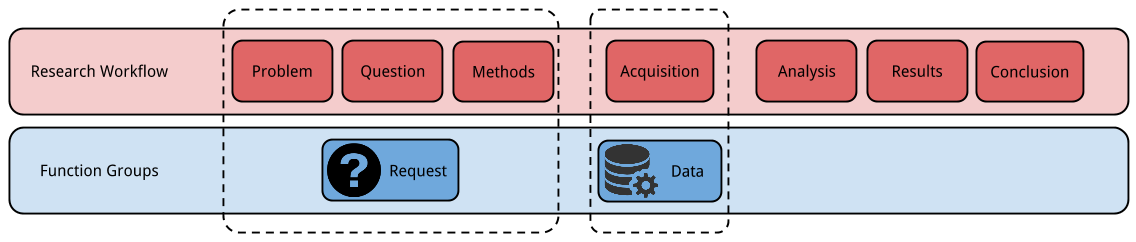
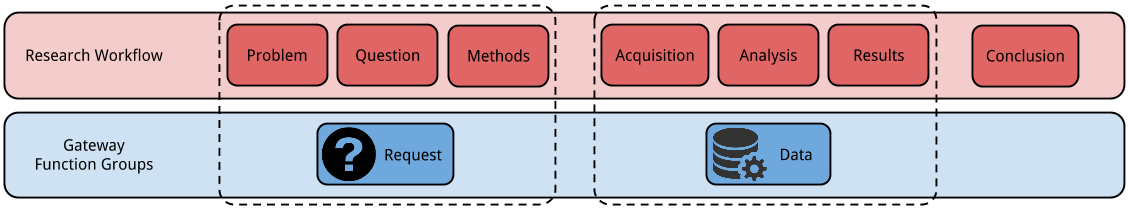
starting to change chapter 2

diff --git a/partials/requirements/process-analysis.tex b/partials/requirements/process-analysis.tex
@@ -1,22 +1,9 @@
-\silvia{general notes: 
-	\\(1) need to give a name for the dataset "fertility data repository"? ivf/prn repo? ivf-repo something short that you can simply use in this section.
-	\\(2) also need a name for the SG that is the main object in the thesis. 
-	the terminology should be introduced in the intro and used consistently afterwards
-	\\(3) explain stakeholders, what they do (with and without the system)
-	\\(4) refer to components, module, function groups - not "blocks"
-}
-
-In this chapter first the process analysis will be described, this gives an overview of what the current situation is.
-Then an initial system design is proposed which is used in a brainstorm session where the final requirements are discovered.
-Besides these user defined requirements there are also lawful and security related requirements.
-These will be described in the security and provenance sections.
-
 \section{Process Analysis}
 \label{process-analysis}
 
 \paragraph{Research with the \project{} dataset}
 When doing research in the medical domain a well known workflow is often used. Nwogu \cite{nwogu} has formally described and defined this workflow for scientific reporting purposes (\ie{} writing scientific papers).
-Figure \ref{fig:research-workflow} shows the simplification of this workflow, which includes problem definition, formulation of research question, definition of methods, data aquisition, statistical analysis, analysis results, and conclusion.
+The {\tt Research Workflow} in figure \ref{fig:research-workflow} shows the simplification of this workflow, which includes problem definition, formulation of research question, definition of methods, data aquisition, statistical analysis, analysis results, and conclusion.
 
 Clinical research (\eg{} a trial) is well suited to follow this workflow, as each step can be executed in turn.
 Of these steps data acquisition is often the most time-consuming part.
@@ -28,82 +15,28 @@ The goal of the proposed \ivfsystem{} is to facilitate reuse of this data.
 There is, however, one major restriction with data sharing and re-use: medical data is (almost always) highly sensitive and must be secured. 
 This imposes strong conditions for reusing the data, which have to be taken into account by the system.
 
-\paragraph{Study of the process}
-Identification of the process was mostly done through observation but also with interviews and a literature study.
-The literature study and interviews, which will be further described in section \ref{security}, resulted in descriptions of security issues and solutions.
-These are the underlying requirements of the \ivfsystem{} and have to be implemented as a result of the used data repository.
-Observations led to the concept of the work process that had to be supported.
-It boils down to data acquisition from a central data repository, namely the \projectdata{}.
+For reuse purposes three actors are important: researcher, data manager, and interested third parties (\eg{} clinics, public, government).
+Researchers are actors interested in analysis of the \projectdata{} for scientific ends.
+The data manager is the central point of communication for everything that has to do with the dataset, but is also responsible for keeping an overview of everything that happens during the steps in the process.
+Lastly, third parties are actors interested in research conclusions and possibly aggregated (statistical) data from the \projectdata{}.
 
-To get to an acquisition first a researcher has to be able to find the data he/she needs.
+Currently when a dataset like the \projectdata{} is exploited for reuse the following happens.
+A researcher asks what data is available and can search to find what he/she needs.
 Then a data request is formulated and a permission granting process is initiated.
-This is reflected in figure \ref{fig:research-workflow} with the function group {\tt Request}.
 A request contains the necessary information to base a permission decision on, \eg{} problem background, research question, and perceived methods to answer question.
-Based on the permission the researcher receives the data, reflected with {\tt Data} in figure \ref{fig:research-workflow}.
+The research committee evaluates the request and based on this the researcher gets permission to receive data.
 
-In the described workflow there is also an data manager.
-This person is responsible for the dataset, keeping an overview of everything that happens in the workflow, and most importantly is the central point of communication.
-An example showing all three of the responsibilities: requests are evaluated by a research committee, this evaluation is send to the manager who initiates the data acquisition for the researcher.
-
-With this process in mind a functionality design was made.
-It describes each of the necessary functions that need to be build in order to support the process on a system.
-The design, as described in the following section, was made with previous engineering experience and discussion with other experts. 
+At a first look it seemed the system would boil down to data acquisition.
+As addition to wrapping this process into a system the execution of analysis and storing the results was added to boost the usefulness for researchers.
+The acquisition and analysis processes overspan a big chunk of the research workflow, which is depicted in figure \ref{fig:research-workflow} with the gateway function groups.
 
 \begin{figure}[t]
 	\centering
 	\includegraphics[width=1.0\linewidth]{images/research-workflow}
 	\caption{
 		This figure shows a simplification of the research workflow often used  in the medical domain (based on Nwogu \cite{nwogu}).
-		The workflow components are mapped by the identified system function groups.
-		%TODO: Remove note?
-		Note: the data acquisition component requires execution of acquisition methods defined in the methods component.
+		The workflow components are mapped (dotted lines) by the identified \ivfsystem{} function groups.
+		Note: the data acquisition component requires execution of acquisition methods defined in the methods component. \allard{remove note?}
 	}
 	\label{fig:research-workflow}
 \end{figure}
-
-\section{Initial Concept}
-
-\silvia{this section is too difficult to understand, need a complete rewrite}
-
-\silvia{i think this should be a separate section. give it a name (seed concept? seed design?) - just "seed" is not enough. There was also some study done prior to this design (interviews, study, observation).
-briefly report this in 2.1. Then you can present the first design itself (fig 2.1)}
-
-Restricting the use of data to one user is undesirable, therefore good data management has to be applied to enable re-use.
-\silvia{explain where the initial idea came from (maybe this is the link with the previous part?)}
-The initial idea in this project was to develop a data management system with data-centric functions, \eg{} request, upload, download, search, for .....
-These are represented in figure \ref{fig:research-workflow} with the blocks `request' and `data'.
-With these functions a big part of the research workflow would be supported.
-
-
-\silvia{
-the txt below was at the caption, but i think it should not. captions are used to explain the figure - nothing else. generic stuff goes to the text body:
-External services such as .. are provided ?? and outside of the scope of this paper.
-Two direct users and several external users are planned each with their specific set of functions.
-		Data listed is either available at initialisation of the system or is generated during execution.
-}
-		
-\begin{figure}[t]
-	\centering
-	\includegraphics[width=1.0\linewidth]{images/brainstorm-before}
-	\caption{
-		Initial concept for the \ivfsystem{}, encompassing data and user management. 
-		The system offers different sets of functions for three user roles (a,b,c) indicated by colours. 
-		External services provide data according to regulations.
-	}
-	\label{fig:brainstorm-before}
-\end{figure}
-
-Figure \ref{fig:brainstorm-before} describes the full view of the seed. The function groups are expanded into: users, external services, data, and functions.
-The external services provide ...
-They influence the system but are outside of the scope of this paper.
-This means that data and protocols (necessary for lawful execution of the system) 
-are already provide by these external systems, and ???.
-From the provided data, unlinked data is \project{} data split into clinics and PRN, where linked data are the matched rows from both.
-Projected direct users are researchers and data managers.
-Furthermore, external parties (clinics, public, government) might be interested in statistics of the system and its data, \eg{} aggregated and anonymised analysis outcomes.
-
-Functions for each of the user roles encompass data management and user management.
-Data functions meaning mutations of the raw \project{} data, where metadata is metadata of this raw data. \silvia{need to explain in intro what is data, metadata in general and in the context of this project}
-The data block refers to data being stored in the system at initialisation and during execution.
-The linked set (\ie{} raw data) is an initialisation input of the system.
-Other items are generated during execution, \eg{} subsets are created after a data request is granted which also results in provenance data, etc.

diff --git a/partials/requirements/security-summary.tex b/partials/requirements/security-summary.tex
@@ -1,4 +1,4 @@
-\subsection{Technical \& Procedural Cornerstones of Security}
+\section{Technical \& Procedural Cornerstones of Security}
 \label{security-summarisation}
 
 The outcomes of the interviews were combined with the literature study to compile a practical list with security issues and solutions that are relevant in this project.
@@ -14,3 +14,54 @@ This check list (Checklist B) can be found in appendix \ref{security-checklists-
 
 % Security table with a list of all found problems and solutions in literature and interviews
 \input{partials/requirements/security-table}
+
+\section{Security Analysis: the \project{} Gateway Case}
+
+Points taken from this security study will be described and reviewed here in the context of the \ivfsystem{}.
+
+Starting with consent, for the \project{} it can be viewed from multiple perspectives: patient, clinic, and registry.
+When a researcher wants to use the dataset available in the \ivfsystem{}, they will use data coming from the clinics, which in turn gather data from patients.
+This patient data is then linked to the PRN registry data.
+Each of the parties involved should to some extent be able to determine if they allow their data to be used.
+
+Patient consent is a difficult problem to tackle in research in general.
+When giving consent, patients need to know what they are signing for and handling data outside of the goal which was described is forbidden.
+However, when using datasets for which it is unreachable and unreasonable to acquire consent from each patient in them, there are exceptions in the Dutch consent regulations.
+This exception is what the \ivfsystem{} currently leans on. 
+It uses historical data for the years 2000 to 2010 and according to the nationwide IVF report \cite{ivfReportNVOG} there are approximately 4000 pregnancies per year.
+Which means that there are about 40.000 patients in the dataset in total.
+Given the size and age of the dataset it was deemed unreasonable to require consent.
+To determine if consent is not a requirement, advice from external parties should be acquired.
+In this case these were: the \AMC{} chief privacy officer, medical ethical commissions of data suppliers, and the \PRN{} privacy commission.
+
+Consent from clinics and registries can be compared to patient consent.
+They all give permission to use \emph{their} data for a specific cause as described in the consent.
+The main difference between these data providers in giving consent is that their considerations are based on different interests.
+For example, a patient might be concerned about his/her privacy.
+Of course a clinic will also take this into account when a dataset is requested but they also have interests like: what research will be performed with the data.
+If this clashes with a research of their own it is less likely the clinic will give consent.
+In the \ivfsystem{} these different levels of consent must be taken into account  to be able to perform the function of providing research data.
+
+In order to fulfil regulations and ethical needs a dataset should be minimised, so that no superfluous items are left in the dataset.
+For each of the data items in the dataset a purpose should be described. 
+A proper purpose is leading in ethical discussions about whether to accept a data item in the dataset or not.
+Having a well-defined protocol with the \ivfsystem{} can provide more confidence in the system by users, leads to better understanding of the system, and provides evidence that choices about data items were made with certain considerations.
+
+For data linkage some identifying (\ie{} private) data items are needed.
+This can be described in the purpose of the data item, but there are also methods for avoiding these data items.
+Hashing of data with the application of Bloom filters \cite{something} makes it possible to link two datasets without revealing the identifying data.
+On-line data linkage is only mentioned as a future work for the \ivfsystem{}.
+In the first implementation, linkage is provided by a third-party and the linked data itself is seen as an external service in figure xx.
+
+Anonymisation and pseudonymisation should be used to de-identify individuals.
+While identification through data aggregation and cross-referencing is still possible to happen, these steps should make it more difficult.
+The \ivfsystem{} will use both techniques to provide privacy, datasets are mostly kept clean by removing all identifying data at the data gathering step.
+Whatever identifying data is left (through linkage) will be pseudonymised before it is accepted into the system.
+
+In order to decrease the chances of cross-referencing and data breaches in general, auditing should be applied.
+This means keeping logs on who uses what data at what point in time and \silvia{?? what that data looked like at that time}.
+Apart from privacy this also makes it possible to keep people accountable and to provide research data management functionalities such as archival and provenance.
+
+Lastly, exploring and using present day standard security measures are a must-have for a good system.
+During the software engineering cycle of the \ivfsystem{} searches will be done for the appropriate security measures for each part of the system.
+Also the expertise of developers, engineers, and system administrators with multiple years of experience each will be used.

diff --git a/partials/requirements/initial-concept.tex b/partials/requirements/initial-concept.tex
@@ -1,0 +1,48 @@
+%TODO make paragraph
+
+\section{Initial Concept}
+
+\silvia{this section is too difficult to understand, need a complete rewrite}
+
+\silvia{i think this should be a separate section. give it a name (seed concept? seed design?) - just "seed" is not enough. There was also some study done prior to this design (interviews, study, observation).
+briefly report this in 2.1. Then you can present the first design itself (fig 2.1)}
+
+Restricting the use of data to one user is undesirable, therefore good data management has to be applied to enable re-use.
+\silvia{explain where the initial idea came from (maybe this is the link with the previous part?)}
+The initial idea in this project was to develop a data management system with data-centric functions, \eg{} request, upload, download, search, for .....
+These are represented in figure \ref{fig:research-workflow} with the blocks `request' and `data'.
+With these functions a big part of the research workflow would be supported.
+
+
+\silvia{
+the txt below was at the caption, but i think it should not. captions are used to explain the figure - nothing else. generic stuff goes to the text body:
+External services such as .. are provided ?? and outside of the scope of this paper.
+Two direct users and several external users are planned each with their specific set of functions.
+		Data listed is either available at initialisation of the system or is generated during execution.
+}
+		
+\begin{figure}[t]
+	\centering
+	\includegraphics[width=1.0\linewidth]{images/brainstorm-before}
+	\caption{
+		Initial concept for the \ivfsystem{}, encompassing data and user management. 
+		The system offers different sets of functions for three user roles (a,b,c) indicated by colours. 
+		External services provide data according to regulations.
+	}
+	\label{fig:brainstorm-before}
+\end{figure}
+
+Figure \ref{fig:brainstorm-before} describes the full view of the seed. The function groups are expanded into: users, external services, data, and functions.
+The external services provide ...
+They influence the system but are outside of the scope of this paper.
+This means that data and protocols (necessary for lawful execution of the system) 
+are already provide by these external systems, and ???.
+From the provided data, unlinked data is \project{} data split into clinics and PRN, where linked data are the matched rows from both.
+Projected direct users are researchers and data managers.
+Furthermore, external parties (clinics, public, government) might be interested in statistics of the system and its data, \eg{} aggregated and anonymised analysis outcomes.
+
+Functions for each of the user roles encompass data management and user management.
+Data functions meaning mutations of the raw \project{} data, where metadata is metadata of this raw data. \silvia{need to explain in intro what is data, metadata in general and in the context of this project}
+The data block refers to data being stored in the system at initialisation and during execution.
+The linked set (\ie{} raw data) is an initialisation input of the system.
+Other items are generated during execution, \eg{} subsets are created after a data request is granted which also results in provenance data, etc.

diff --git a/partials/requirements/security.tex b/partials/requirements/security.tex
@@ -1,10 +1,26 @@
 \section{Security}
 \label{security}
 
-Earlier it was noted that security is an integral part of the \ivfsystem{}, this section contains the justification for this statement.
-The full security review can be found in appendix \ref{security-review-appendix}, the following section contains the analysis when considering the found security aspects within the context of the \ivfsystem{}.
+When doing research in the medical domain a well known workflow is often used. Nwogu \cite{nwogu} has formally described and defined this workflow for scientific reporting purposes (\ie{} writing scientific papers).
+This workflow includes: problem definition, formulation of research question, definition of methods, data aquisition, statistical analysis, analysis results, and conclusion.
 
-\subsection{Security Analysis: the \ivfsystem{} case}
+Clinical research (\eg{} a trial) is well suited to follow this workflow, as each step can be executed in turn.
+Of these steps data acquisition is often the most time-consuming part.
+However, acquisition of new data is not always necessary,  desirable or even possible. 
+Research data of high quality and trustworthiness is valuable and should be preserved and re-used, under well controlled conditions. 
+This is also the case with the \projectdata{}.
+
+The goal of the proposed \ivfsystem{} is to facilitate reuse of this data.
+There is, however, one major restriction with data sharing and re-use: medical data is (almost always) highly sensitive and must be secured. 
+This imposes strong conditions for reusing the data, which have to be taken into account by the system.
+
+The following section is the discussion portion of a security study.
+Literature was searched for security issues and solutions to these issues in systems related to the clinical domain.
+Found security (abstract) aspects were applied to real-life examples gathered in an interview with a software engineer working on systems supporting a big clinical registry in the Netherlands.
+The full security review and interview transcript can be found in appendix \ref{security-review-appendix}.
+
+%TODO tekst inkorten, specifiek voor het systeem maken
+\paragraph{Security Analysis: the \ivfsystem{} case}
 \label{security-summarisation-analysis}
 
 Points taken from this security study will be described and reviewed here in the context of the \ivfsystem{}.

diff --git a/main.tex b/main.tex
@@ -31,8 +31,8 @@
 \newcommand{\PRN}{PRN}
 \newcommand{\AMC}{AMC}
 \newcommand{\project}{DARTS!}
-\newcommand{\projectdata}{DDS}
-\newcommand{\ivfsystem}{DRG}
+\newcommand{\projectdata}{D-dataset}
+\newcommand{\ivfsystem}{D-gateway}
 \newcommand{\escience}{e-Science}
 
 % Commenting commands
@@ -57,8 +57,6 @@
 	
 	\chapter{Introduction}
 	\label{introduction}
-
-	%TODO: Check if terminology is explained, IVF, PRN, clinical audit registration, \ivfsystem{}, \project.
 	
 	\input{partials/introduction/introduction-domain}
 	\input{partials/introduction/introduction-big-data}
@@ -67,13 +65,27 @@
 	\chapter{Requirement Analysis}
 	\label{requirements}
 	
-	\input{partials/requirements/process-analysis}
+	In this chapter the requirement discovery for the \ivfsystem{} will be described.
+	Normally this would be done be performing a brainstorm session with a starting point, \eg{} `we want to design a new website house style'.
+	For the \ivfsystem{} this was harder as the system's concept was too abstract, meaning that no useful ideas could be formed.
 	
-	\input{partials/requirements/brainstorm}
+	%TODO fix order
+	Therefore, firstly a study was performed, consisting of literature studies, an interview, and observations.
+	The literature study, resulted in descriptions of security issues and solutions.
+	These are the underlying requirements of the \ivfsystem{} and have to be implemented as a result of the used data repository.
+	The interview tied abstract security concepts together with real-life situations.
+	And lastly observations led to the concept of the work process that had to be supported. 
+	
+	With this input an initial requirement analysis was created which in its place was used as input for a brainstorm session.
+	The results of this session were then used to update the requirements to form the final concept.
 	
 	\input{partials/requirements/security}
 	
 	\input{partials/requirements/provenance}
+	
+	\input{partials/requirements/process-analysis}
+	
+	\input{partials/requirements/brainstorm}
 	
 	\chapter{System Design \& Implementation}
 	\label{system-functionality}

diff --git a/partials/requirements/security-introduction.tex b/partials/requirements/security-introduction.tex
@@ -6,7 +6,7 @@
 %\subsection{Literature Review}
 %\label{security-literature}
 
-Security is an integral and important part of the \ivfsystem{} because it deals with linked data that potentially can be used to re-identify individuals and, in this case, also organization (clinics)
+Security is an integral and important part of the \project{} gateway because it deals with linked data that potentially can be used to re-identify individuals and, in this case, also organisation (clinics)
 
 %, this section contains the justification for this statement.
 %This section is an intermezzo to the software engineering part of this thesis, which will continue at section \ref{system-functionality}.

diff --git a/partials/requirements/security-table.tex b/partials/requirements/security-table.tex
@@ -37,7 +37,7 @@
 	\par \bigskip
 	This table describes the procedural and technical problems and solutions that were found. 
 	The list is sorted according to type of point (either procedural or technical and either a problem or a solution).
-	*: Reference, either refers to a citation (with brackets []) or an interview (paragraph numbering \eg{} 1.2.1).
+	*: Reference, either refers to a citation (with brackets []) or an interview (section numbering \eg{} C.1).
 \end{center}
 
 %PROCEDURAL

diff --git a/partials/requirements/brainstorm.tex b/partials/requirements/brainstorm.tex
@@ -1,3 +1,6 @@
+\input{partials/requirements/initial-concept}
+
+%TODO make paragraph, going to combine previous stuff here
 \section{Brainstorm}
 \label{brainstorm}
 
@@ -121,3 +124,5 @@ The focus of the system switches from purely data support to also supporting oth
 	}
 	\label{fig:brainstorm-after}
 \end{figure}
+
+%TODO add final result paragraph

diff --git a/partials/requirements/security-interviews.tex b/partials/requirements/security-interviews.tex
@@ -1,4 +1,4 @@
-\subsection{Interview}
+\section{Interview}
 \label{security-interviews}
 
 %\paragraph{Set-up} 
